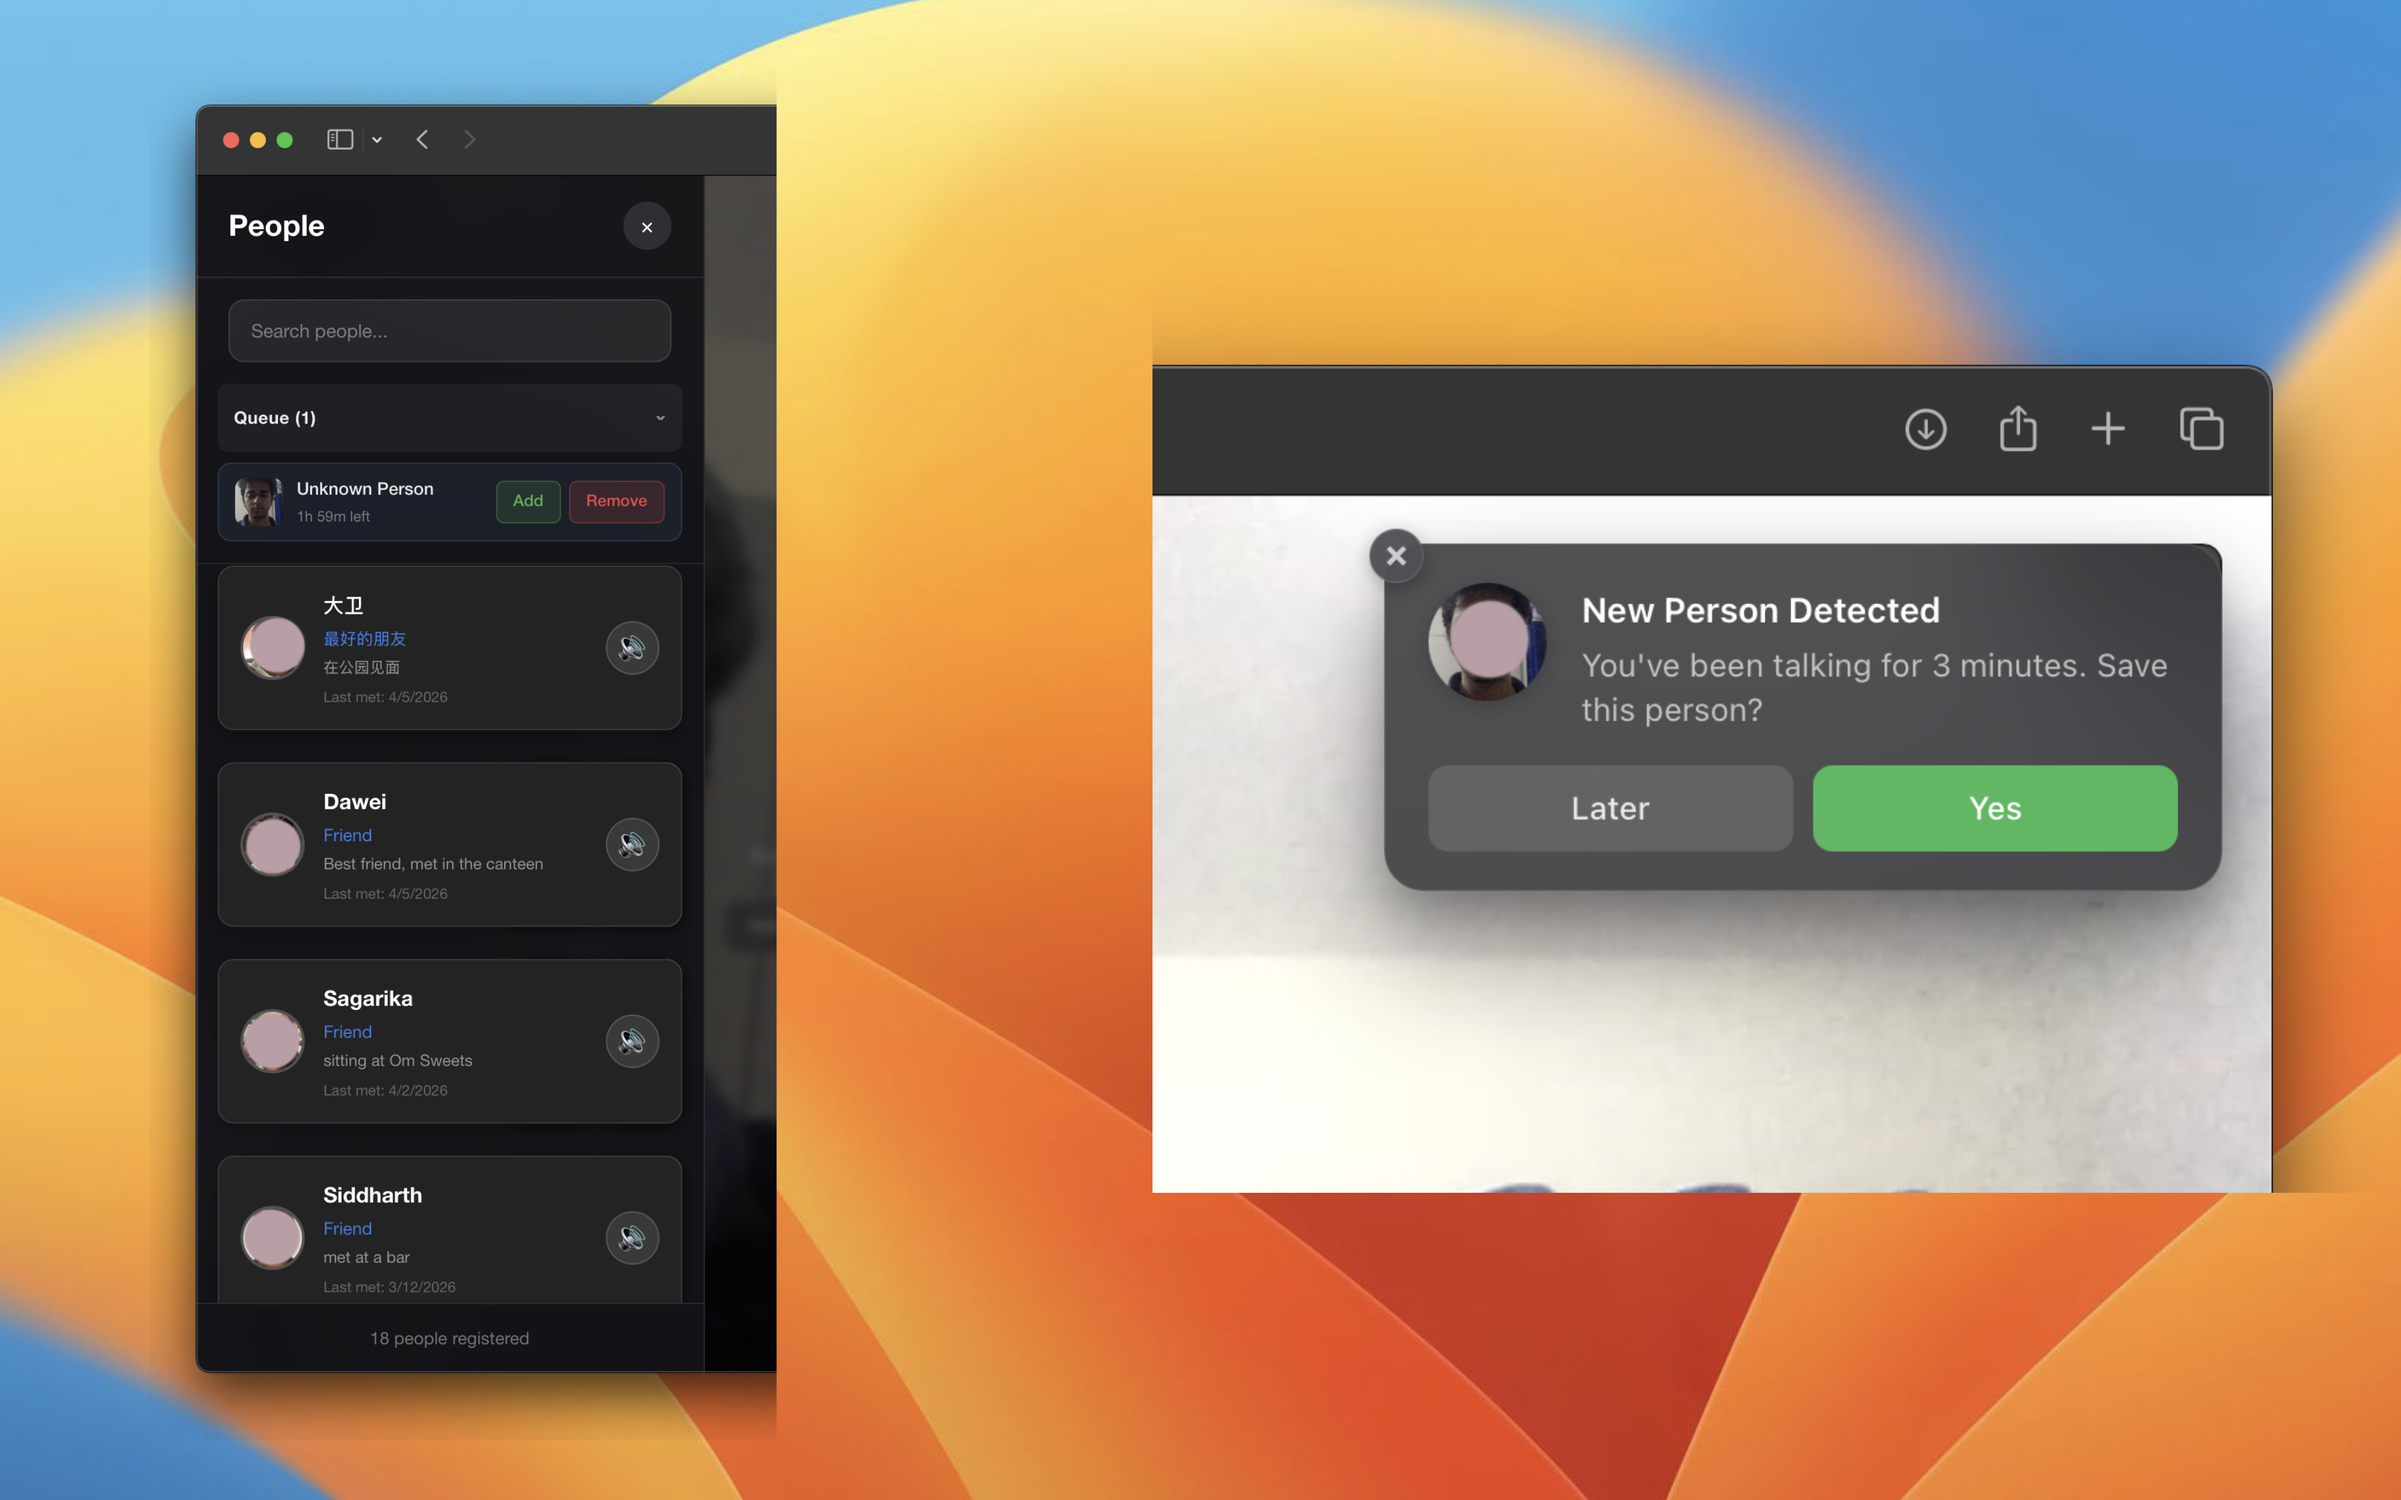
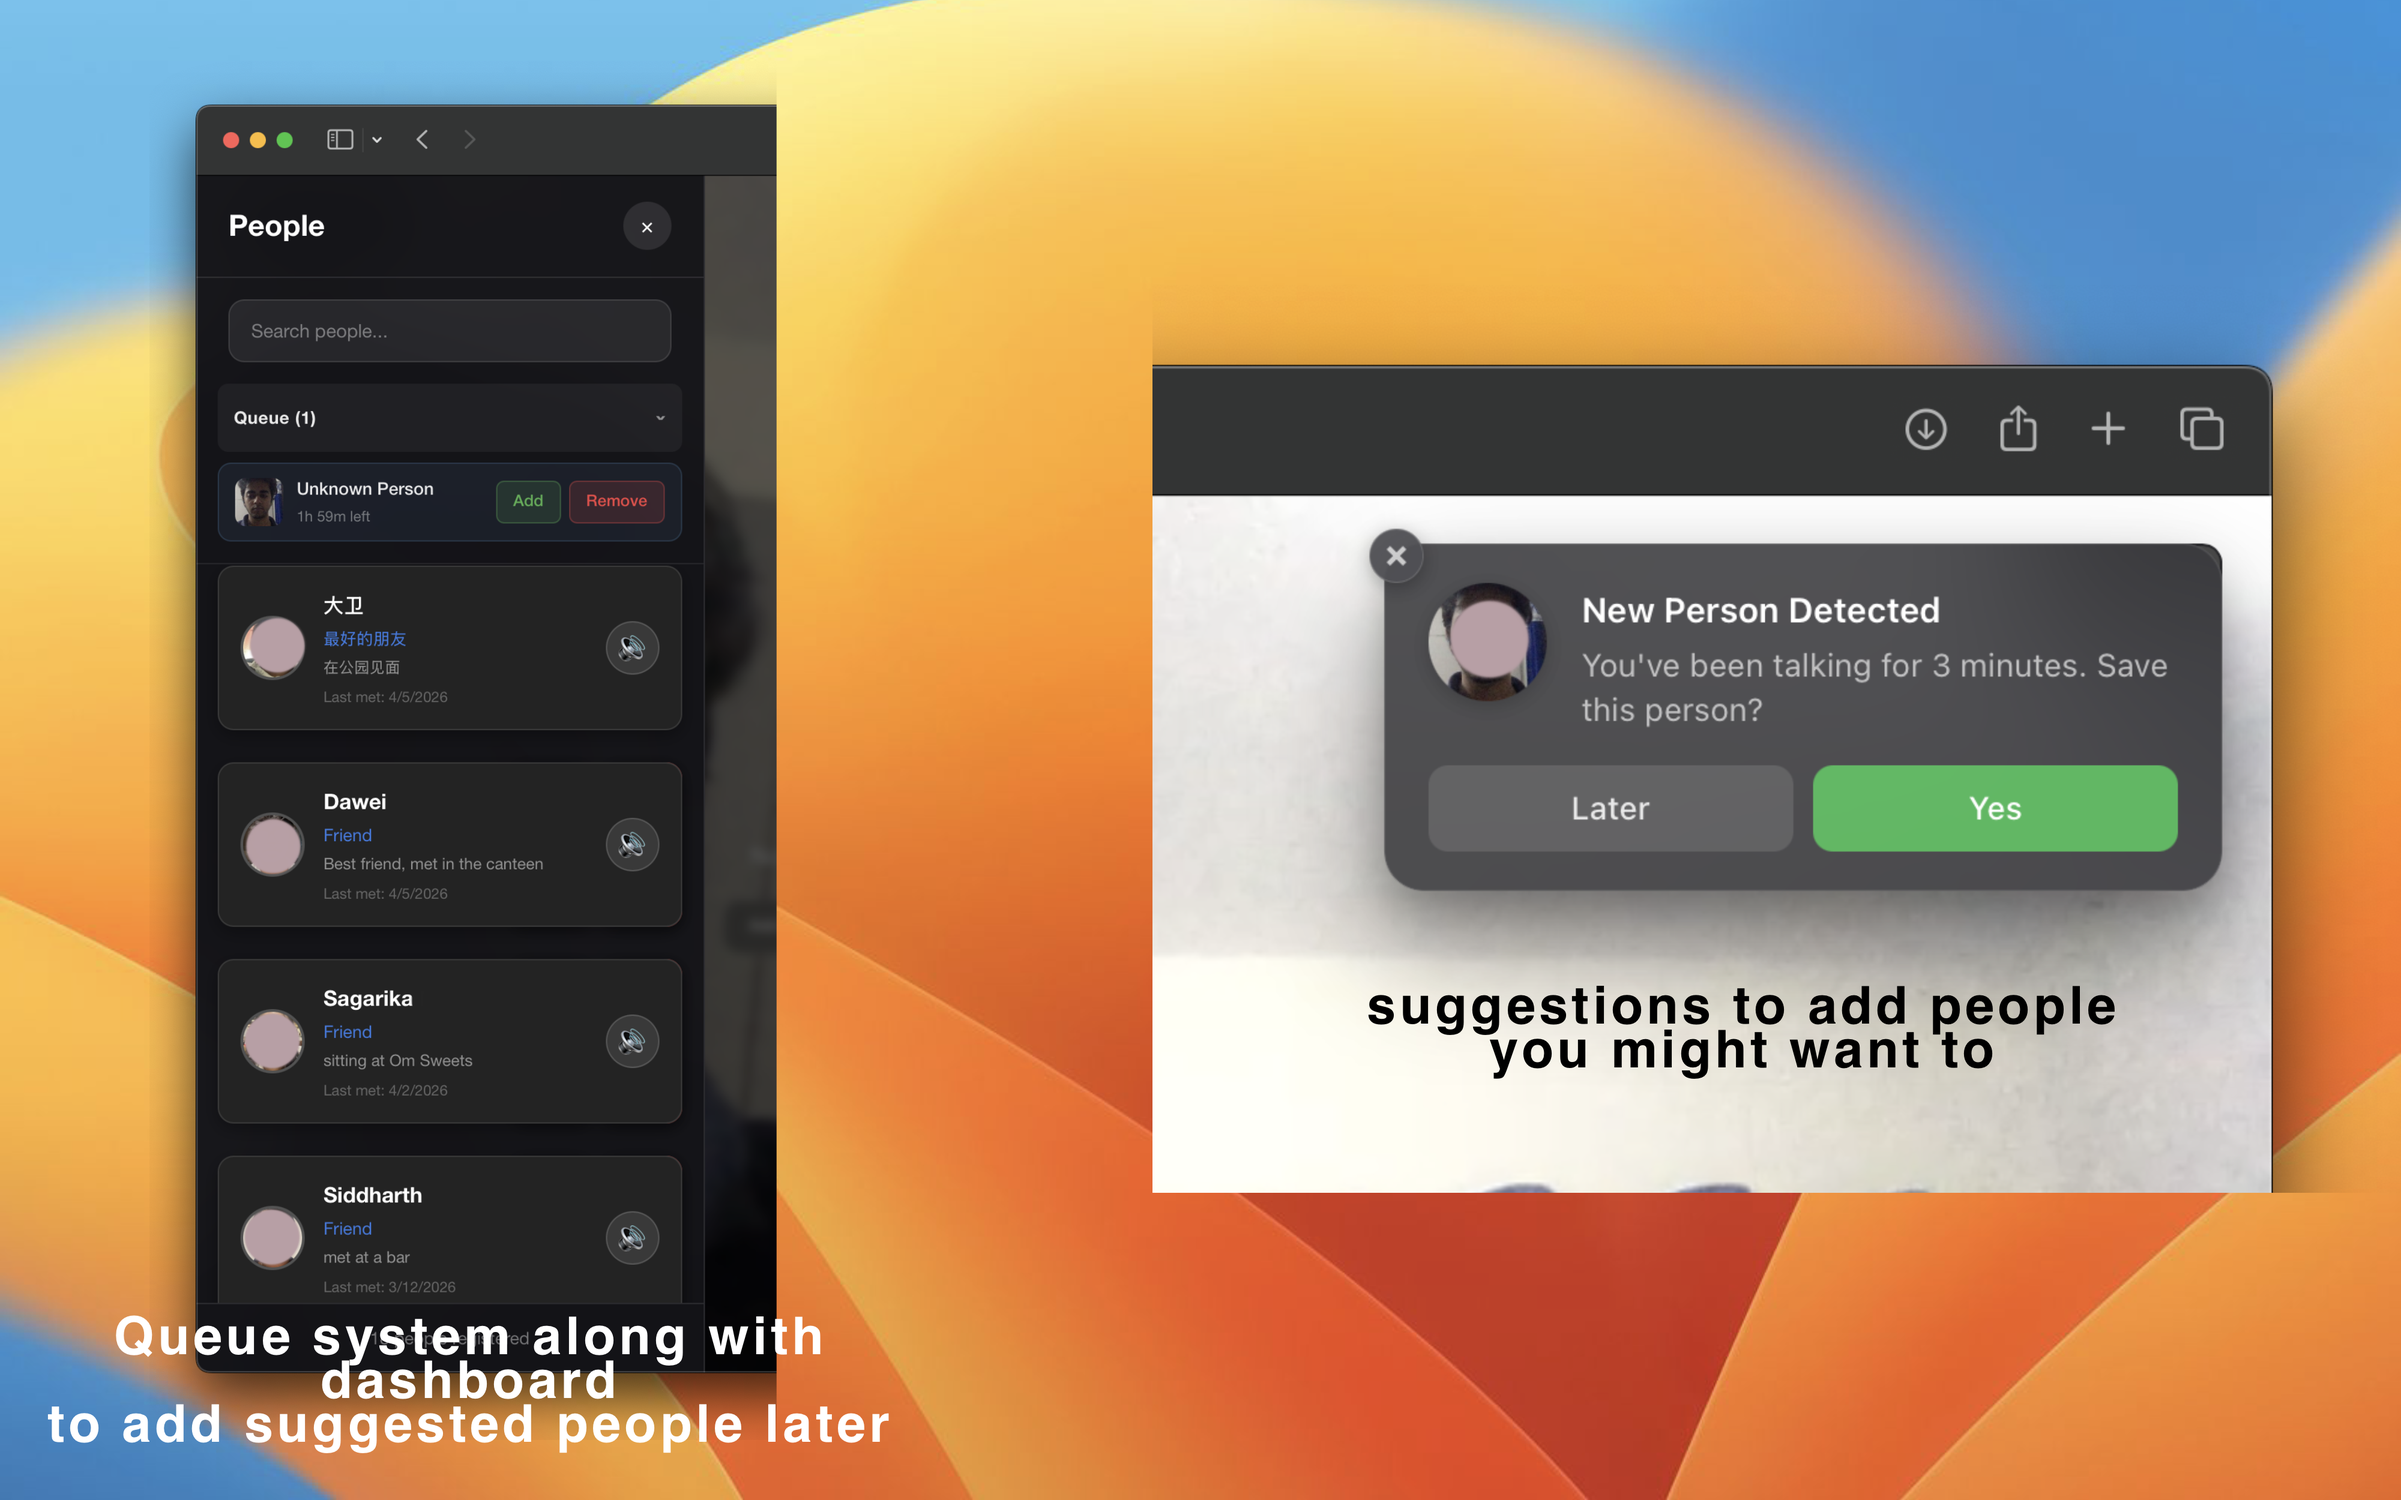
bug fixes

Changed region(s): [[0.0, 0.8736, 0.375, 0.9672], [0.5625, 0.6552, 0.875, 0.7176]]

diff --git a/frontend/src/components/DesktopLandingPage.tsx b/frontend/src/components/DesktopLandingPage.tsx
@@ -649,7 +649,7 @@ export function LandingPage({ onStartDemo, user, onSignIn, onLogout, region, all
                                                         <button
                                                             onClick={(e) => { e.preventDefault(); onLogout(); }}
                                                             onTouchEnd={(e) => { e.preventDefault(); onLogout(); }}
-                                                            className="text-[10px] sm:text-sm md:text-base px-4 py-2 md:px-6 md:py-3 border border-black/20 text-black/60 hover:bg-remindar-button-brown hover:text-remindar-button-text hover:border-remindar-button-brown transition-all duration-300 relative z-50 cursor-pointer"
+                                                            className="text-[10px] sm:text-sm md:text-base px-4 md:px-6 h-[31px] sm:h-9 md:h-12 border border-black/20 text-black/60 hover:bg-remindar-button-brown hover:text-remindar-button-text hover:border-remindar-button-brown transition-all duration-300 relative z-50 cursor-pointer flex items-center justify-center"
                                                             style={{ fontFamily: 'Mileast', fontStyle: 'italic' }}
                                                         >
                                                             Log Out

diff --git a/frontend/src/components/RegionSelector.tsx b/frontend/src/components/RegionSelector.tsx
@@ -108,7 +108,7 @@ export function RegionSelector({ currentRegion, regions, onSelect }: RegionSelec
                 ref={buttonRef}
                 onClick={toggleDropdown}
                 onTouchEnd={toggleDropdown}
-                className="text-[10px] sm:text-sm md:text-base px-3 py-2 md:px-4 md:py-3 border border-black/20 text-black/60 hover:bg-remindar-button-brown hover:text-remindar-button-text hover:border-remindar-button-brown transition-all duration-300 cursor-pointer flex items-center gap-1.5 md:gap-2"
+                className="text-[10px] sm:text-sm md:text-base px-3 md:px-4 h-[31px] sm:h-9 md:h-12 border border-black/20 text-black/60 hover:bg-remindar-button-brown hover:text-remindar-button-text hover:border-remindar-button-brown transition-all duration-300 cursor-pointer flex items-center gap-1.5 md:gap-2"
                 style={{ fontFamily: 'Mileast', fontStyle: 'italic' }}
                 title="Select your region for voice optimization"
             >
